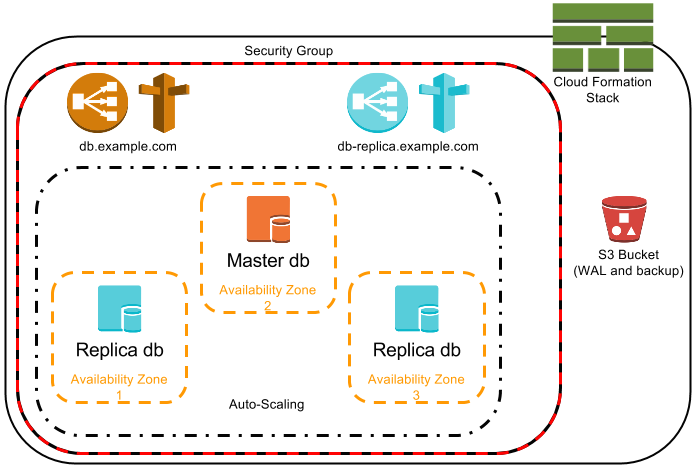
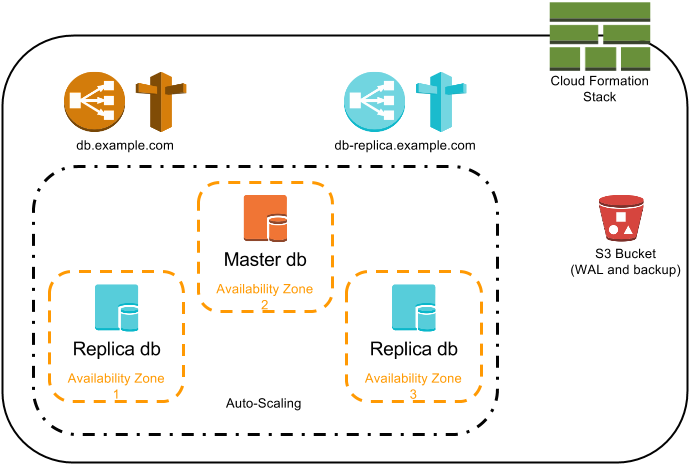
Documentation: Reflect Security Group changes

diff --git a/docs/DESIGN.md b/docs/DESIGN.md
@@ -62,6 +62,16 @@ This allows Point-in-time recovery abilities.
 Having backups in S3 also allows new nodes to be restored from S3 (instead from the master). This may speed up spawning a new node and
 reduce pressure on the master.
 
+**Security Groups**
+
+Multiple Security Groups are created, one for the EC2 instances, which is by default restrictive:
+
+* Allows Spilo peers to connect to eachother
+* Allows ELB's to connect to the EC2 instances
+* Allows administrative and monitoring connections to the instances
+
+And a Security Group per ELB, to allow access to specific networks or applications, which by default allows traffic from this VPC's region.
+
 **Cloud Formation**
 
 All components are described in a Cloud Formation Template. The stups tool [senza](https://github.com/zalando-stups/senza)
